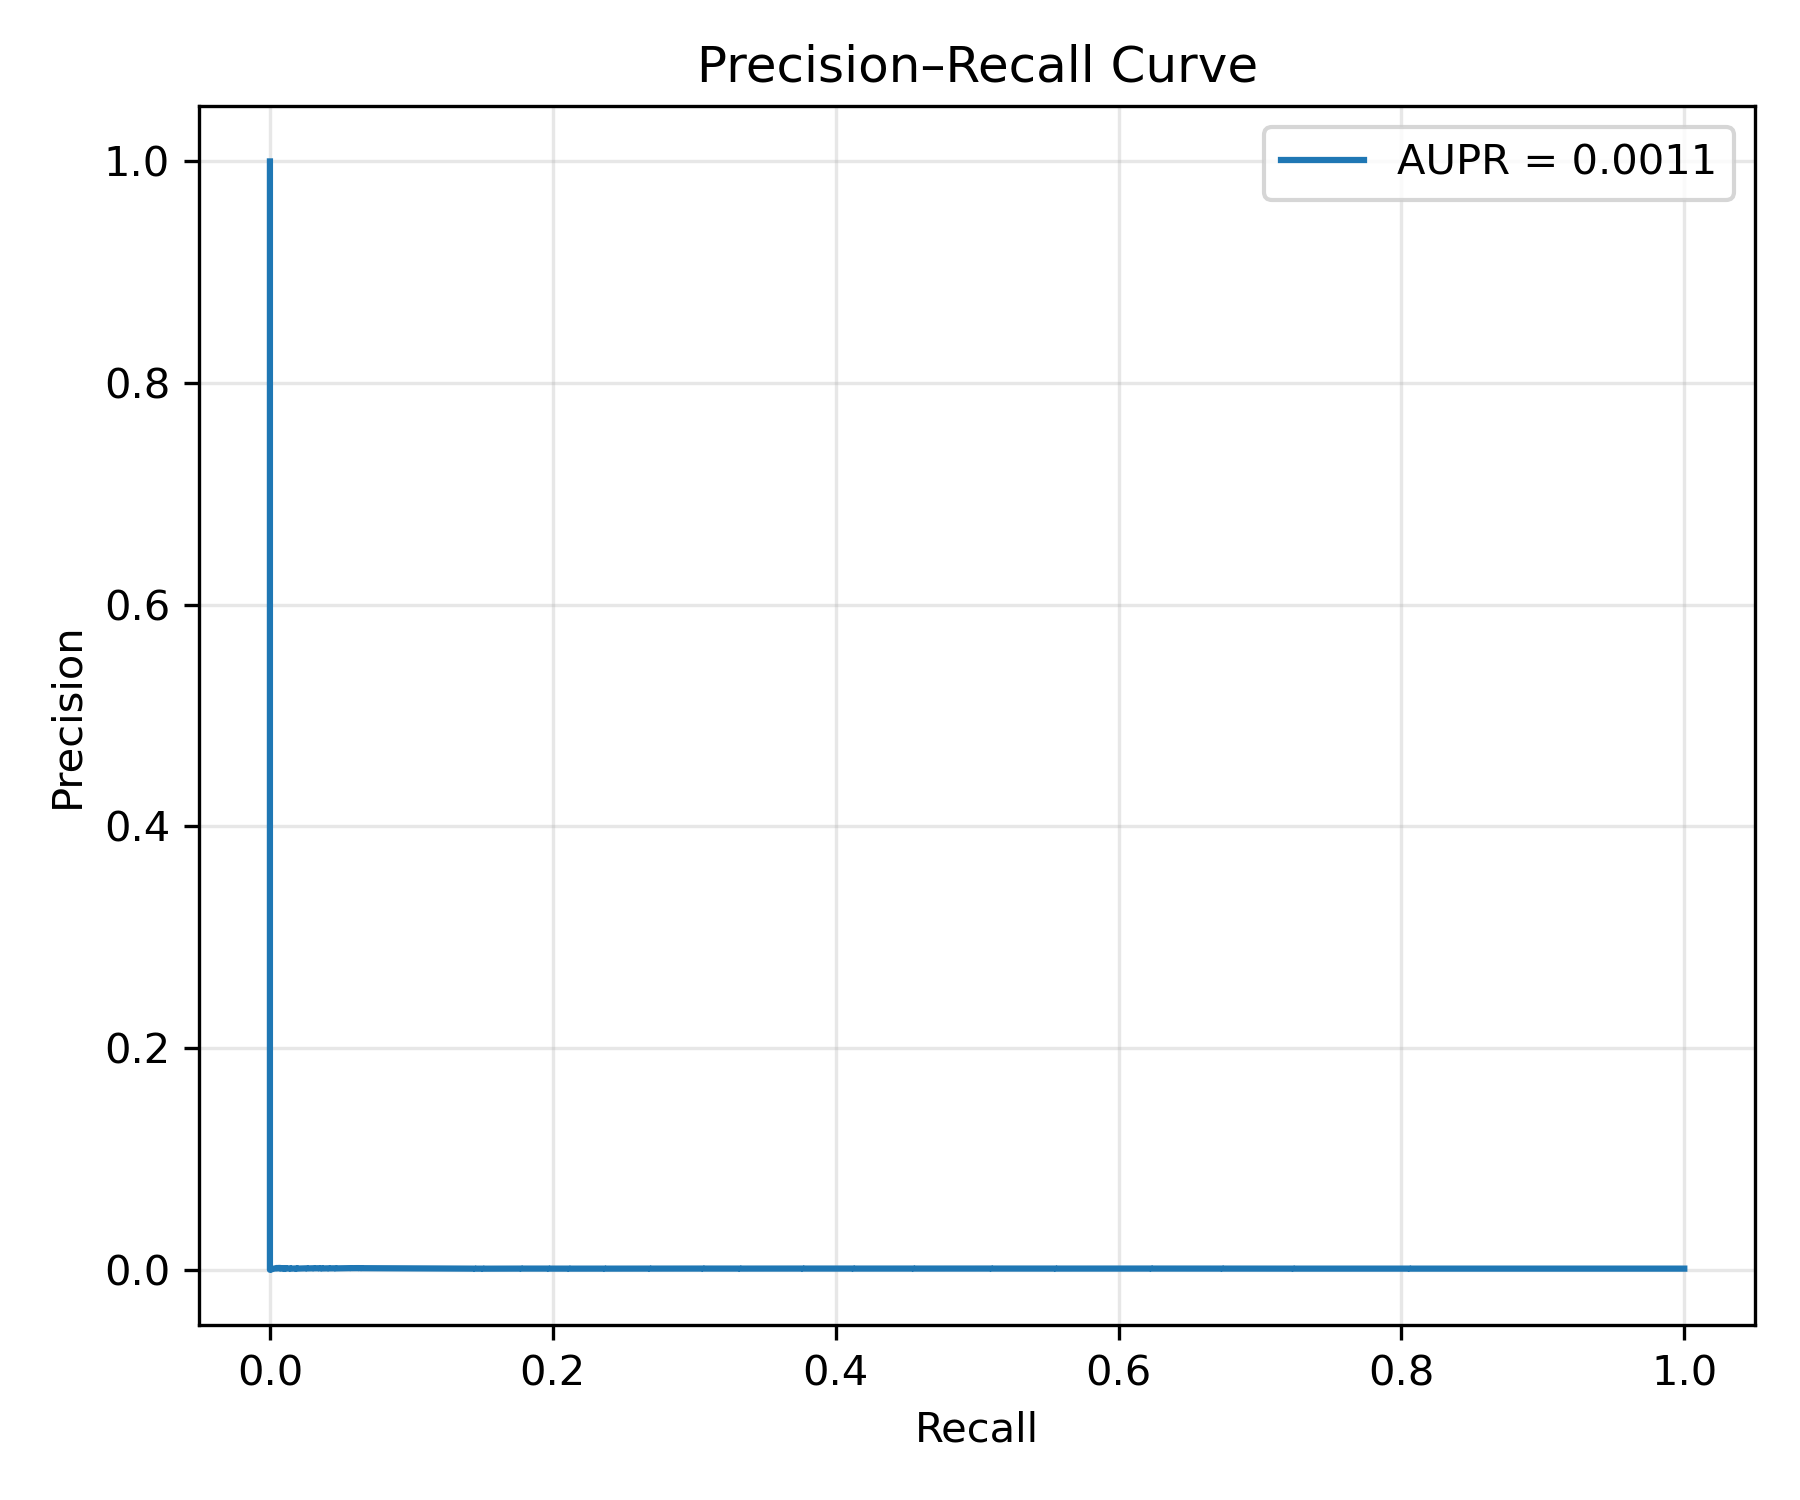
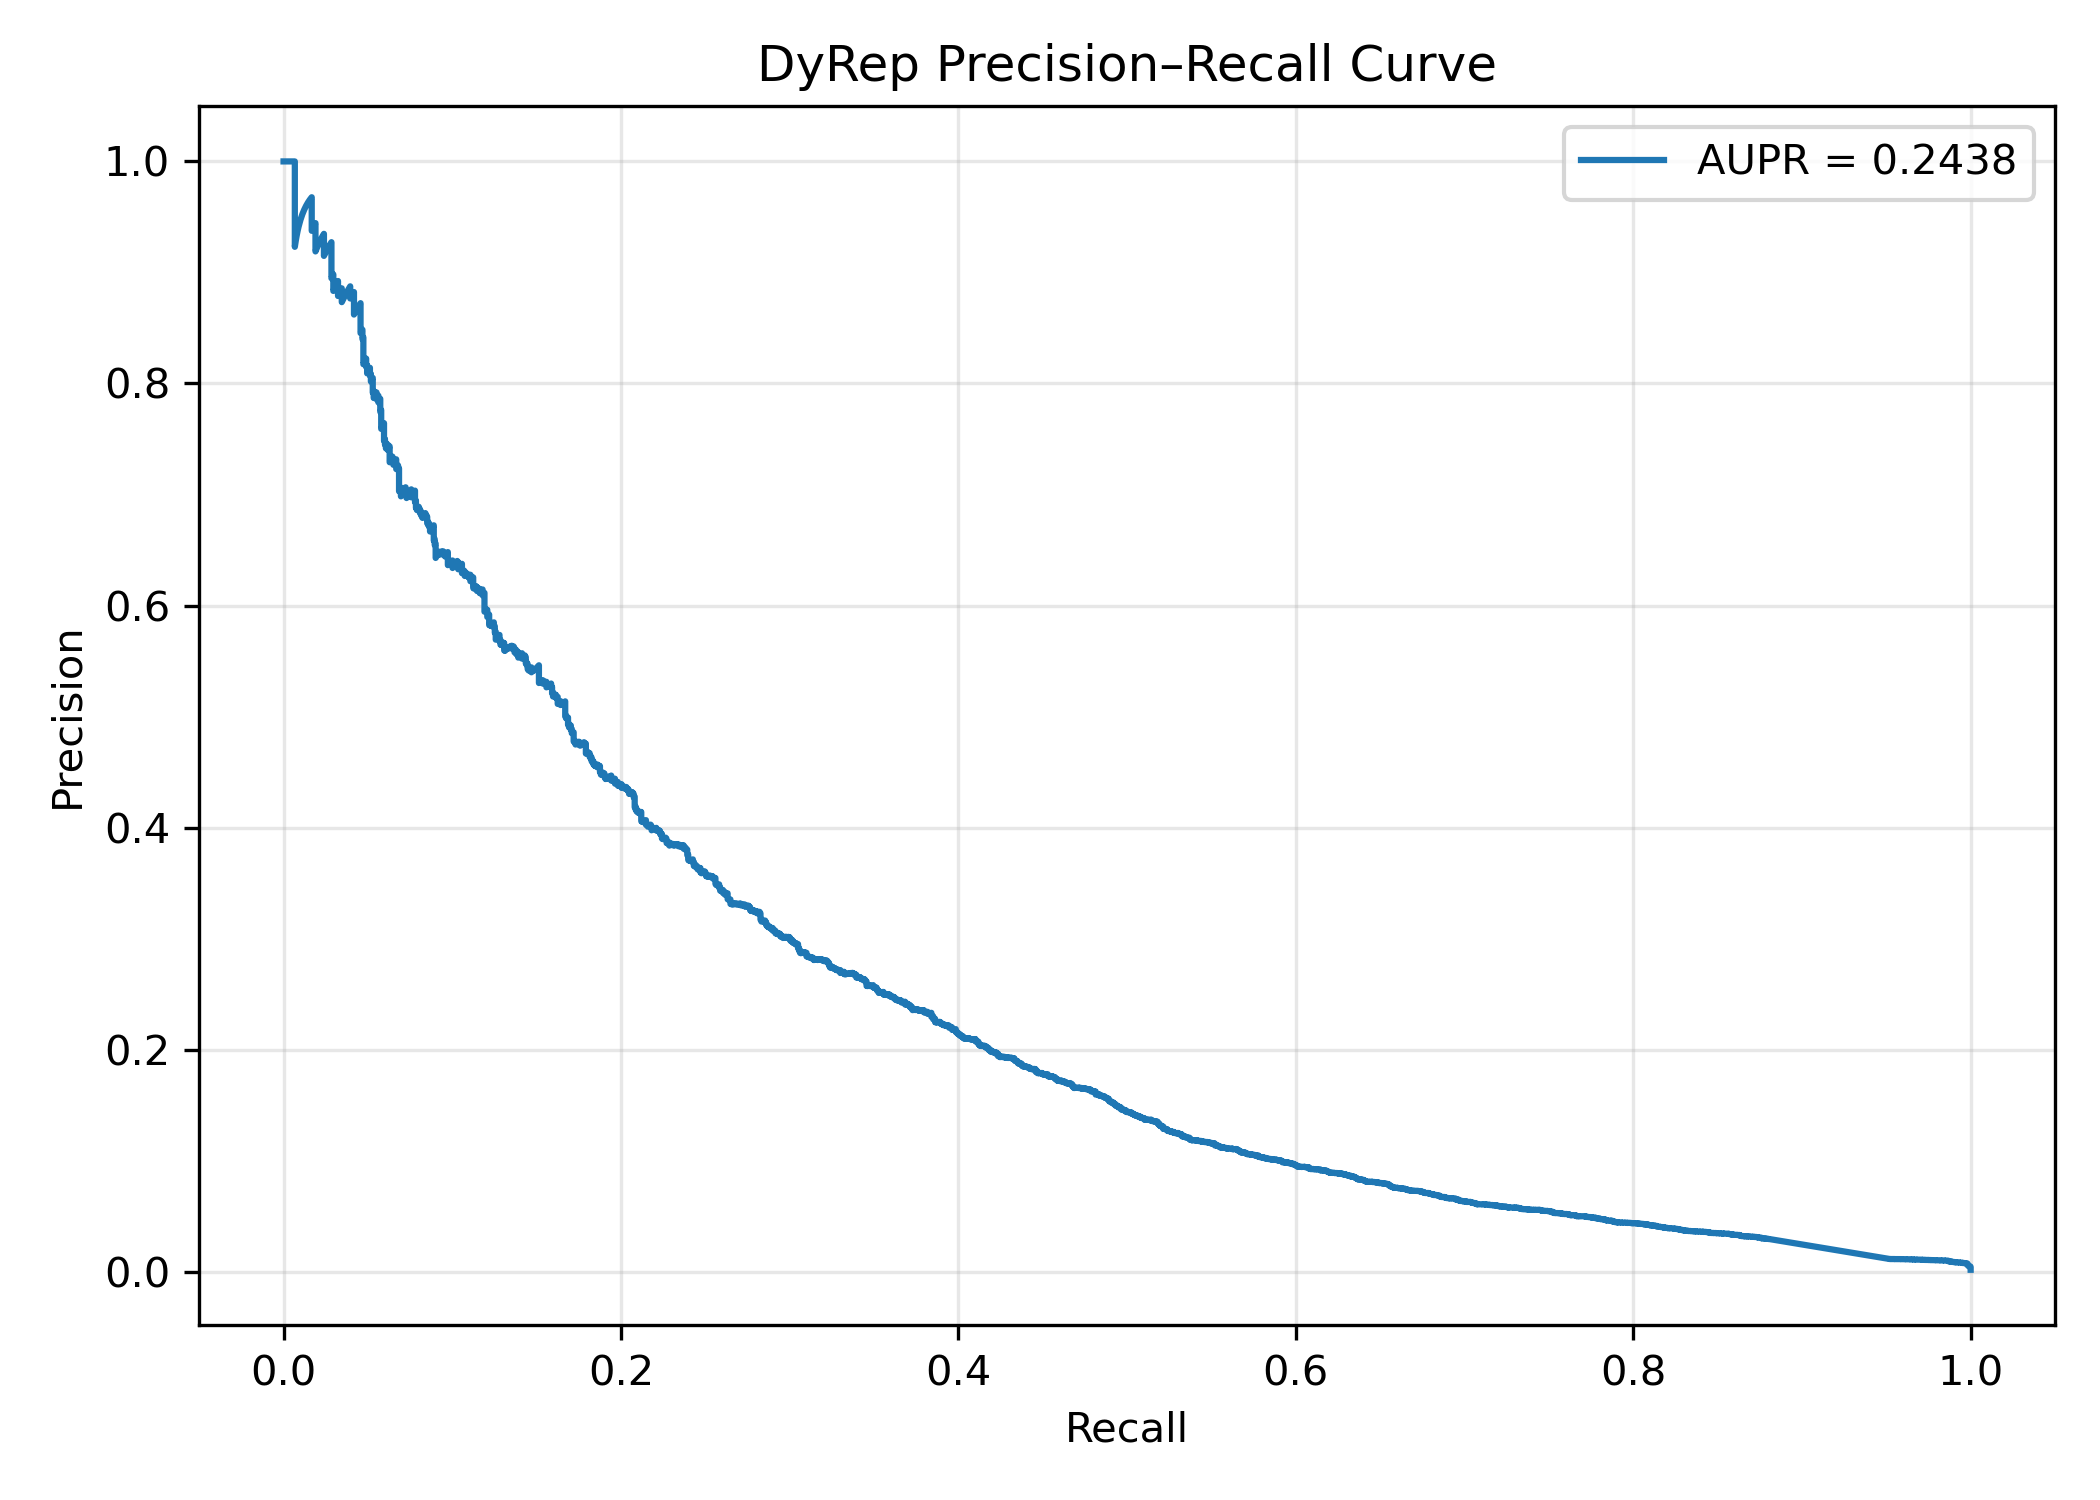
updated dyrep roc and aupr curves

diff --git a/scripts/utils/plot_dyrep_curves_from_saved.py b/scripts/utils/plot_dyrep_curves_from_saved.py
@@ -1,0 +1,76 @@
+import torch
+import numpy as np
+from sklearn.metrics import precision_recall_curve, roc_curve, auc, average_precision_score
+import matplotlib.pyplot as plt
+import os
+
+# -------------------------------------------------------
+# DyRep Paths — CHANGE THESE
+# -------------------------------------------------------
+
+results_dir = r"results/HI-Small_Trans/seed1337_experiment2/dyrep"   # <-- change per run
+graph_dir   = r"graphs_dyrep/HI-Small_Trans"                   # static/dataset folder
+split_dir   = r"splits_dyrep/HI-Small_Trans"
+
+# -------------------------------------------------------
+# Load predicted probabilities (TEST only)
+# -------------------------------------------------------
+
+probs = torch.load(os.path.join(results_dir, "test_pred_probs.pt")).cpu().numpy().ravel()
+
+# -------------------------------------------------------
+# Load ground truth DYREP labels (labels.pt)
+# -------------------------------------------------------
+
+y_all = torch.load(os.path.join(graph_dir, "labels.pt")).cpu().numpy().astype(int)
+
+# -------------------------------------------------------
+# Load test split indices
+# -------------------------------------------------------
+
+# Try the two common naming schemes
+if os.path.exists(os.path.join(split_dir, "test_edge_idx.pt")):
+    test_idx = torch.load(os.path.join(split_dir, "test_edge_idx.pt")).cpu().numpy()
+elif os.path.exists(os.path.join(split_dir, "test_events_idx.pt")):
+    test_idx = torch.load(os.path.join(split_dir, "test_events_idx.pt")).cpu().numpy()
+else:
+    raise FileNotFoundError("Could not find test split file.")
+
+y_true = y_all[test_idx]
+
+print("Shapes:", probs.shape, y_true.shape)
+print("Positives in test:", y_true.sum(), "/", len(y_true))
+
+# -------------------------------------------------------
+# Compute PR curve
+# -------------------------------------------------------
+
+precision, recall, _ = precision_recall_curve(y_true, probs)
+aupr = average_precision_score(y_true, probs)
+
+plt.figure(figsize=(7,5))
+plt.plot(recall, precision, label=f"AUPR = {aupr:.4f}")
+plt.xlabel("Recall")
+plt.ylabel("Precision")
+plt.title("DyRep Precision–Recall Curve")
+plt.legend()
+plt.grid(alpha=0.3)
+plt.tight_layout()
+plt.savefig(os.path.join(results_dir, "pr_curve.png"), dpi=300)
+
+# -------------------------------------------------------
+# Compute ROC curve
+# -------------------------------------------------------
+
+fpr, tpr, _ = roc_curve(y_true, probs)
+roc_auc = auc(fpr, tpr)
+
+plt.figure(figsize=(7,5))
+plt.plot(fpr, tpr, label=f"AUC = {roc_auc:.4f}")
+plt.xlabel("False Positive Rate")
+plt.ylabel("True Positive Rate")
+plt.title("DyRep ROC Curve")
+plt.legend()
+plt.grid(alpha=0.3)
+plt.tight_layout()
+plt.savefig(os.path.join(results_dir, "roc_curve.png"), dpi=300)
